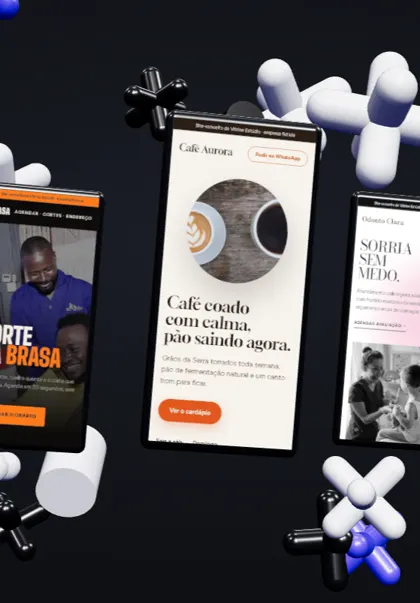
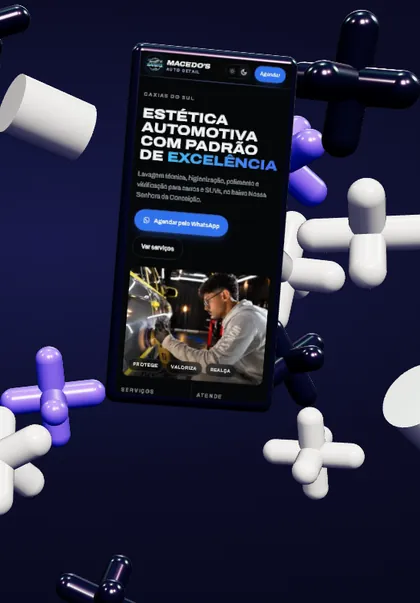
feat: tira os sites-conceito; grade com a Macedo's e o lugar do proximo site; cena 3D com um celular e poster novo; corrige rolagem da cena

diff --git a/index.html b/index.html
@@ -16,7 +16,7 @@
 <link rel="preload" as="style" href="https://fonts.googleapis.com/css2?family=Archivo:wdth,wght@125,700;125,800&family=Sen:wght@400;500;700&family=Mrs+Saint+Delafield&display=swap">
 <link rel="stylesheet" href="https://fonts.googleapis.com/css2?family=Archivo:wdth,wght@125,700;125,800&family=Sen:wght@400;500;700&family=Mrs+Saint+Delafield&display=swap" media="print" onload="this.media='all'">
 <noscript><link rel="stylesheet" href="https://fonts.googleapis.com/css2?family=Archivo:wdth,wght@125,700;125,800&family=Sen:wght@400;500;700&family=Mrs+Saint+Delafield&display=swap"></noscript>
-<link rel="stylesheet" href="css/v8.css?v=1795542000">
+<link rel="stylesheet" href="css/v8.css?v=1795560000">
 <script type="importmap">{ "imports": { "three": "./assets/vendor/three.module.min.js" } }</script>
 <script>document.documentElement.classList.add('js')</script>
 </head>
@@ -59,8 +59,7 @@
     </figure>
     <svg class="sign sign--hero" viewBox="0 0 600 200" aria-hidden="true" data-sign data-sign-hero><text x="300" y="140" text-anchor="middle">Vitrine</text></svg>
     <a class="me__float me__float--a" href="https://macedos-auto-detail.pages.dev" target="_blank" rel="noopener" data-float="0.6" data-speed="0.12"><img src="assets/img/macedos-servicos-720.webp" width="720" height="450" alt="Site da Macedo's Auto Detail"><span class="tiny">Macedo's · no ar ↗</span></a>
-    <a class="me__float me__float--b" href="conceitos/cafe/" data-float="-0.4" data-speed="-0.1"><img src="assets/conceitos/cafe-mob.webp" width="390" height="844" alt="Site-conceito do Café Aurora"><span class="tiny">Café · demonstração</span></a>
-    <a class="me__float me__float--c" href="conceitos/barbearia/" data-float="0.9" data-speed="0.2"><img src="assets/conceitos/barbearia-mob.webp" width="390" height="844" alt="Site-conceito da Barbearia Brasa"><span class="tiny">Barbearia · demonstração</span></a>
+    <a class="me__float me__float--c" href="https://macedos-auto-detail.pages.dev" target="_blank" rel="noopener" data-float="0.9" data-speed="0.2"><img src="assets/img/macedos-celular.webp" width="390" height="844" alt="Site da Macedo's Auto Detail no celular"><span class="tiny">No celular ↗</span></a>
     <div class="me__bottom">
       <h1 id="me-h" class="me__title" data-split>Sites bonitos e rápidos para pequenas empresas.</h1>
       <div class="me__cta">
@@ -74,7 +73,7 @@
   <section class="hero" aria-labelledby="hero-h">
     <div class="hero__stage" data-stage>
       <canvas class="hero__canvas" data-canvas aria-hidden="true"></canvas>
-      <picture class="hero__poster"><source media="(max-width: 700px)" srcset="assets/img/hero-cena-mob.webp"><img src="assets/img/hero-cena.webp" width="1365" height="804" alt="Celulares com os sites flutuando entre peças 3D brancas, pretas e azuis" fetchpriority="high"></picture>
+      <picture class="hero__poster"><source media="(max-width: 700px)" srcset="assets/img/hero-cena-mob.webp?v=2"><img src="assets/img/hero-cena.webp?v=2" width="1365" height="804" alt="Celular com o site da Macedo's flutuando entre peças 3D holográficas" fetchpriority="high"></picture>
       <div class="hero__over">
         <h2 id="hero-h" class="hero__title" data-split>Seu site novo, pronto antes de você pagar.</h2>
         <div class="hero__meta">
@@ -92,7 +91,7 @@
       <h2 id="c1-h" data-split>O cliente procura você e acha só um Instagram.</h2>
       <p>Sem site, sem horário claro, sem preço. Ele fecha a aba e chama o concorrente.</p>
     </div>
-    <div class="chap__phone" data-chap><img src="assets/conceitos/cafe-mob.webp" width="390" height="844" alt="" loading="lazy"></div>
+    <div class="chap__phone" data-chap><img src="assets/img/macedos-celular.webp" width="390" height="844" alt="" loading="lazy"></div>
     <span class="chap__stamp" aria-hidden="true" data-chap-extra>Sem site</span>
   </section>
 
@@ -103,8 +102,8 @@
       <h2 id="ad-h" class="sr">Antes e depois do site</h2>
       <span class="ad__word" aria-hidden="true" data-ad-l>Antes</span>
       <figure class="ad__phone">
-        <img class="ad__before" src="assets/conceitos/cafe-mob.webp" width="390" height="844" alt="O site antes: sem cor e sem vida" loading="lazy">
-        <img class="ad__after" src="assets/conceitos/cafe-mob.webp" width="390" height="844" alt="O site depois, com o novo visual" loading="lazy" data-ad-after>
+        <img class="ad__before" src="assets/img/macedos-celular.webp" width="390" height="844" alt="O site antes: sem cor e sem vida" loading="lazy">
+        <img class="ad__after" src="assets/img/macedos-celular.webp" width="390" height="844" alt="O site depois, com o novo visual" loading="lazy" data-ad-after>
       </figure>
       <span class="ad__word" aria-hidden="true" data-ad-r>Depois</span>
       <p class="tiny ad__cap">Role para ver o site mudar</p>
@@ -114,13 +113,10 @@
   <!-- Trabalhos: grade sem espaço entre as fotos, título com a palavra que troca, faixas cruzadas e botões -->
   <section class="work" id="trabalhos" aria-labelledby="work-h">
     <h2 id="work-h" class="work__title">Dá uma olhada no que eu posso fazer pela sua <span class="rot" data-rotate="empresa|barbearia|clínica|cafeteria|estética">empresa</span></h2>
-    <div class="tiles">
-      <a class="tile" href="conceitos/cafe/" data-rise><img src="assets/conceitos/cafe-desk.webp" width="1440" height="900" alt="Site do Café Aurora" loading="lazy"><span class="tile__info"><span class="tiny">Demonstração · Café</span><b>Café Aurora</b></span></a>
+    <div class="tiles tiles--duo">
       <a class="tile" href="https://macedos-auto-detail.pages.dev" target="_blank" rel="noopener" data-rise><img src="assets/img/macedos-home.webp" width="1440" height="900" alt="Site da Macedo's Auto Detail" loading="lazy"><span class="tile__info"><span class="tiny">Cliente real · no ar</span><b>Macedo's Auto Detail ↗</b></span></a>
-      <a class="tile" href="conceitos/barbearia/" data-rise><img src="assets/conceitos/barbearia-desk.webp" width="1440" height="900" alt="Site da Barbearia Brasa" loading="lazy"><span class="tile__info"><span class="tiny">Demonstração · Barbearia</span><b>Barbearia Brasa</b></span></a>
-      <a class="tile" href="conceitos/clinica/" data-rise><img src="assets/conceitos/clinica-desk.webp" width="1440" height="900" alt="Site da Odonto Clara" loading="lazy"><span class="tile__info"><span class="tiny">Demonstração · Clínica</span><b>Odonto Clara</b></span></a>
-      <a class="tile" href="https://macedos-auto-detail.pages.dev" target="_blank" rel="noopener" data-rise><img src="assets/img/macedos-farol.webp" width="1440" height="900" alt="Farol antes e depois no site da Macedo's" loading="lazy"><span class="tile__info"><span class="tiny">Cliente real · antes e depois</span><b>Farol como novo ↗</b></span></a>
-      <a class="tile" href="https://macedos-auto-detail.pages.dev" target="_blank" rel="noopener" data-rise><img src="assets/img/macedos-servicos-720.webp" width="720" height="450" alt="Vitrine de serviços no site da Macedo's" loading="lazy"><span class="tile__info"><span class="tiny">Cliente real · serviços</span><b>Vitrine de serviços ↗</b></span></a>
+      <!-- Lugar do próximo site real (o Boa de Contar entra aqui quando tiver matérias publicadas) -->
+      <a class="tile tile--next" href="#pedido" data-rise><span class="tile__next"><span class="tiny">Próximo site</span><b>O próximo pode ser o seu</b><span class="tile__go">Pedir minha prévia grátis →</span></span></a>
     </div>
     <div class="ribbons" aria-hidden="true">
       <div class="ribbon ribbon--a"><div class="ribbon__track"><span>Site novo</span><i>✦</i><span>Prévia grátis</span><i>✦</i><span>Otimização</span><i>✦</i><span>Manutenção</span><i>✦</i><span>Site novo</span><i>✦</i><span>Prévia grátis</span><i>✦</i><span>Otimização</span><i>✦</i><span>Manutenção</span><i>✦</i></div></div>
@@ -287,12 +283,12 @@
 
 <script src="assets/vendor/motion.js"></script>
 <script src="assets/vendor/lenis.min.js"></script>
-<script src="js/site.js?v=1795541000" defer></script>
+<script src="js/site.js?v=1795560000" defer></script>
 <script type="module">
   // A cena 3D só carrega em computador, depois que a página terminou; no celular fica a imagem dela.
   const big = matchMedia("(pointer: fine) and (min-width: 900px)").matches && (navigator.hardwareConcurrency || 4) >= 4;
   const later = (fn) => (window.requestIdleCallback ? requestIdleCallback(fn, { timeout: 2500 }) : setTimeout(fn, 1200));
-  if (big) addEventListener("load", () => later(() => import("./js/cena.js?v=1795282128")), { once: true });
+  if (big) addEventListener("load", () => later(() => import("./js/cena.js?v=1795562000")), { once: true });
 </script>
 <script type="module" src="js/analise.js?v=1794933840"></script>
 </body>

diff --git a/src/index.html b/src/index.html
@@ -17,7 +17,7 @@
 <link rel="preload" as="style" href="https://fonts.googleapis.com/css2?family=Archivo:wdth,wght@125,700;125,800&family=Sen:wght@400;500;700&family=Mrs+Saint+Delafield&display=swap">
 <link rel="stylesheet" href="https://fonts.googleapis.com/css2?family=Archivo:wdth,wght@125,700;125,800&family=Sen:wght@400;500;700&family=Mrs+Saint+Delafield&display=swap" media="print" onload="this.media='all'">
 <noscript><link rel="stylesheet" href="https://fonts.googleapis.com/css2?family=Archivo:wdth,wght@125,700;125,800&family=Sen:wght@400;500;700&family=Mrs+Saint+Delafield&display=swap"></noscript>
-<link rel="stylesheet" href="css/v8.css?v=1795542000">
+<link rel="stylesheet" href="css/v8.css?v=1795560000">
 <script type="importmap">{ "imports": { "three": "./assets/vendor/three.module.min.js" } }</script>
 <script>document.documentElement.classList.add('js')</script>
 </head>
@@ -60,8 +60,7 @@
     </figure>
     <svg class="sign sign--hero" viewBox="0 0 600 200" aria-hidden="true" data-sign data-sign-hero><text x="300" y="140" text-anchor="middle">Vitrine</text></svg>
     <a class="me__float me__float--a" href="https://macedos-auto-detail.pages.dev" target="_blank" rel="noopener" data-float="0.6" data-speed="0.12"><img src="assets/img/macedos-servicos-720.webp" width="720" height="450" alt="Site da Macedo's Auto Detail"><span class="tiny">Macedo's · no ar ↗</span></a>
-    <a class="me__float me__float--b" href="conceitos/cafe/" data-float="-0.4" data-speed="-0.1"><img src="assets/conceitos/cafe-mob.webp" width="390" height="844" alt="Site-conceito do Café Aurora"><span class="tiny">Café · demonstração</span></a>
-    <a class="me__float me__float--c" href="conceitos/barbearia/" data-float="0.9" data-speed="0.2"><img src="assets/conceitos/barbearia-mob.webp" width="390" height="844" alt="Site-conceito da Barbearia Brasa"><span class="tiny">Barbearia · demonstração</span></a>
+    <a class="me__float me__float--c" href="https://macedos-auto-detail.pages.dev" target="_blank" rel="noopener" data-float="0.9" data-speed="0.2"><img src="assets/img/macedos-celular.webp" width="390" height="844" alt="Site da Macedo's Auto Detail no celular"><span class="tiny">No celular ↗</span></a>
     <div class="me__bottom">
       <h1 id="me-h" class="me__title" data-split>Sites bonitos e rápidos para pequenas empresas.</h1>
       <div class="me__cta">
@@ -75,7 +74,7 @@
   <section class="hero" aria-labelledby="hero-h">
     <div class="hero__stage" data-stage>
       <canvas class="hero__canvas" data-canvas aria-hidden="true"></canvas>
-      <picture class="hero__poster"><source media="(max-width: 700px)" srcset="assets/img/hero-cena-mob.webp"><img src="assets/img/hero-cena.webp" width="1365" height="804" alt="Celulares com os sites flutuando entre peças 3D brancas, pretas e azuis" fetchpriority="high"></picture>
+      <picture class="hero__poster"><source media="(max-width: 700px)" srcset="assets/img/hero-cena-mob.webp?v=2"><img src="assets/img/hero-cena.webp?v=2" width="1365" height="804" alt="Celular com o site da Macedo's flutuando entre peças 3D holográficas" fetchpriority="high"></picture>
       <div class="hero__over">
         <h2 id="hero-h" class="hero__title" data-split>Seu site novo, pronto antes de você pagar.</h2>
         <div class="hero__meta">
@@ -93,7 +92,7 @@
       <h2 id="c1-h" data-split>O cliente procura você e acha só um Instagram.</h2>
       <p>Sem site, sem horário claro, sem preço. Ele fecha a aba e chama o concorrente.</p>
     </div>
-    <div class="chap__phone" data-chap><img src="assets/conceitos/cafe-mob.webp" width="390" height="844" alt="" loading="lazy"></div>
+    <div class="chap__phone" data-chap><img src="assets/img/macedos-celular.webp" width="390" height="844" alt="" loading="lazy"></div>
     <span class="chap__stamp" aria-hidden="true" data-chap-extra>Sem site</span>
   </section>
 
@@ -104,8 +103,8 @@
       <h2 id="ad-h" class="sr">Antes e depois do site</h2>
       <span class="ad__word" aria-hidden="true" data-ad-l>Antes</span>
       <figure class="ad__phone">
-        <img class="ad__before" src="assets/conceitos/cafe-mob.webp" width="390" height="844" alt="O site antes: sem cor e sem vida" loading="lazy">
-        <img class="ad__after" src="assets/conceitos/cafe-mob.webp" width="390" height="844" alt="O site depois, com o novo visual" loading="lazy" data-ad-after>
+        <img class="ad__before" src="assets/img/macedos-celular.webp" width="390" height="844" alt="O site antes: sem cor e sem vida" loading="lazy">
+        <img class="ad__after" src="assets/img/macedos-celular.webp" width="390" height="844" alt="O site depois, com o novo visual" loading="lazy" data-ad-after>
       </figure>
       <span class="ad__word" aria-hidden="true" data-ad-r>Depois</span>
       <p class="tiny ad__cap">Role para ver o site mudar</p>
@@ -115,13 +114,10 @@
   <!-- Trabalhos: grade sem espaço entre as fotos, título com a palavra que troca, faixas cruzadas e botões -->
   <section class="work" id="trabalhos" aria-labelledby="work-h">
     <h2 id="work-h" class="work__title">Dá uma olhada no que eu posso fazer pela sua <span class="rot" data-rotate="empresa|barbearia|clínica|cafeteria|estética">empresa</span></h2>
-    <div class="tiles">
-      <a class="tile" href="conceitos/cafe/" data-rise><img src="assets/conceitos/cafe-desk.webp" width="1440" height="900" alt="Site do Café Aurora" loading="lazy"><span class="tile__info"><span class="tiny">Demonstração · Café</span><b>Café Aurora</b></span></a>
+    <div class="tiles tiles--duo">
       <a class="tile" href="https://macedos-auto-detail.pages.dev" target="_blank" rel="noopener" data-rise><img src="assets/img/macedos-home.webp" width="1440" height="900" alt="Site da Macedo's Auto Detail" loading="lazy"><span class="tile__info"><span class="tiny">Cliente real · no ar</span><b>Macedo's Auto Detail ↗</b></span></a>
-      <a class="tile" href="conceitos/barbearia/" data-rise><img src="assets/conceitos/barbearia-desk.webp" width="1440" height="900" alt="Site da Barbearia Brasa" loading="lazy"><span class="tile__info"><span class="tiny">Demonstração · Barbearia</span><b>Barbearia Brasa</b></span></a>
-      <a class="tile" href="conceitos/clinica/" data-rise><img src="assets/conceitos/clinica-desk.webp" width="1440" height="900" alt="Site da Odonto Clara" loading="lazy"><span class="tile__info"><span class="tiny">Demonstração · Clínica</span><b>Odonto Clara</b></span></a>
-      <a class="tile" href="https://macedos-auto-detail.pages.dev" target="_blank" rel="noopener" data-rise><img src="assets/img/macedos-farol.webp" width="1440" height="900" alt="Farol antes e depois no site da Macedo's" loading="lazy"><span class="tile__info"><span class="tiny">Cliente real · antes e depois</span><b>Farol como novo ↗</b></span></a>
-      <a class="tile" href="https://macedos-auto-detail.pages.dev" target="_blank" rel="noopener" data-rise><img src="assets/img/macedos-servicos-720.webp" width="720" height="450" alt="Vitrine de serviços no site da Macedo's" loading="lazy"><span class="tile__info"><span class="tiny">Cliente real · serviços</span><b>Vitrine de serviços ↗</b></span></a>
+      <!-- Lugar do próximo site real (o Boa de Contar entra aqui quando tiver matérias publicadas) -->
+      <a class="tile tile--next" href="#pedido" data-rise><span class="tile__next"><span class="tiny">Próximo site</span><b>O próximo pode ser o seu</b><span class="tile__go">Pedir minha prévia grátis →</span></span></a>
     </div>
     <div class="ribbons" aria-hidden="true">
       <div class="ribbon ribbon--a"><div class="ribbon__track"><span>Site novo</span><i>✦</i><span>Prévia grátis</span><i>✦</i><span>Otimização</span><i>✦</i><span>Manutenção</span><i>✦</i><span>Site novo</span><i>✦</i><span>Prévia grátis</span><i>✦</i><span>Otimização</span><i>✦</i><span>Manutenção</span><i>✦</i></div></div>
@@ -267,12 +263,12 @@
 
 <script src="assets/vendor/motion.js"></script>
 <script src="assets/vendor/lenis.min.js"></script>
-<script src="js/site.js?v=1795541000" defer></script>
+<script src="js/site.js?v=1795560000" defer></script>
 <script type="module">
   // A cena 3D só carrega em computador, depois que a página terminou; no celular fica a imagem dela.
   const big = matchMedia("(pointer: fine) and (min-width: 900px)").matches && (navigator.hardwareConcurrency || 4) >= 4;
   const later = (fn) => (window.requestIdleCallback ? requestIdleCallback(fn, { timeout: 2500 }) : setTimeout(fn, 1200));
-  if (big) addEventListener("load", () => later(() => import("./js/cena.js?v=1795282128")), { once: true });
+  if (big) addEventListener("load", () => later(() => import("./js/cena.js?v=1795562000")), { once: true });
 </script>
 <script type="module" src="js/analise.js?v=1794933840"></script>
 </body>

diff --git a/js/cena.js b/js/cena.js
@@ -1,5 +1,5 @@
-// Cena 3D da abertura: peças brancas, pretas e azuis e três celulares com os sites, num painel escuro.
-// As peças voltam para o lugar como molas e fogem do mouse; os celulares olham para o mouse.
+// Cena 3D da abertura: peças holográficas e um celular com o site da Macedo's, num painel escuro.
+// As peças voltam para o lugar como molas e fogem do mouse; o celular olha para o mouse.
 import * as THREE from 'three';
 import { RoundedBoxGeometry } from '../assets/vendor/RoundedBoxGeometry.js';
 import { RoomEnvironment } from '../assets/vendor/RoomEnvironment.js';
@@ -13,7 +13,7 @@ let released = document.documentElement.dataset.ready === '1';
 document.addEventListener('vitrine:ready', () => { released = true; }, { once: true });
 setTimeout(() => { released = true; }, 4000);
 
-const SCREENS = ['assets/conceitos/barbearia-mob.webp', 'assets/conceitos/cafe-mob.webp', 'assets/conceitos/clinica-mob.webp'];
+const SCREENS = ['assets/img/macedos-celular.webp'];
 // creme, marinho e violeta, com reflexo de arco-íris (iridescência), como a bolha holográfica da Panda
 const COLORS = { white: '#ece6d8', black: '#10122f', blue: '#6d5cff' };
 const IRIS = { iridescence: 1, iridescenceIOR: 1.35, iridescenceThicknessRange: [120, 720] };
@@ -85,7 +85,7 @@ function start() {
   const loader = new THREE.TextureLoader();
   const phoneBody = new RoundedBoxGeometry(1.9, 4.05, 0.24, 6, 0.3);
   const screenGeo = new THREE.PlaneGeometry(1.72, 3.82);
-  const phoneSpots = [new THREE.Vector3(-2.6, -0.2, 1.2), new THREE.Vector3(0, 0.25, 2.4), new THREE.Vector3(2.6, -0.3, 1.2)];
+  const phoneSpots = [new THREE.Vector3(1.9, 0.55, 2.4)];
   SCREENS.forEach((src, i) => {
     const tex = loader.load(src);
     tex.colorSpace = THREE.SRGBColorSpace;
@@ -95,7 +95,7 @@ function start() {
     const screen = new THREE.Mesh(screenGeo, new THREE.MeshBasicMaterial({ map: tex, toneMapped: false }));
     screen.position.z = 0.125;
     phone.add(screen);
-    phone.scale.setScalar(i === 1 ? 1.08 : 0.9);
+    phone.scale.setScalar(1.15);
     addBody(phone, phoneSpots[i], { phone: true });
   });
 
@@ -135,7 +135,10 @@ function start() {
   window.addEventListener('resize', resize);
 
   let scrollP = 0;
-  window.addEventListener('scroll', () => { scrollP = Math.min(1, window.scrollY / Math.max(1, stage.clientHeight)); }, { passive: true });
+  // quanto a cena já subiu da tela (0 quando o topo dela está no topo da janela), não a rolagem da página toda
+  const onScroll = () => { scrollP = Math.min(1, Math.max(0, -stage.getBoundingClientRect().top / Math.max(1, stage.clientHeight))); };
+  window.addEventListener('scroll', onScroll, { passive: true });
+  onScroll();
 
   const tmp = new THREE.Vector3();
   const clock = new THREE.Clock();

diff --git a/css/v8.css b/css/v8.css
@@ -392,3 +392,14 @@ main > section:first-child { border-top: 0; }
 /* Assinatura do Arthur no fim da história, na seção "Quem faz" */
 .about .sign--about { width: min(340px, 72%); margin: -18px 0 -26px -14px; }
 @media (max-width: 1023px) { .about__photo { order: -1; } }
+
+/* Grade com dois: o site real e o lugar do próximo */
+.tiles--duo { grid-template-columns: repeat(2, minmax(0, 1fr)) !important; }
+.tiles--duo .tile { aspect-ratio: 16 / 10.5; }
+.tile--next { display: grid; place-items: center; background: var(--cream); color: var(--bg); border: 0; }
+.tile__next { display: grid; gap: 14px; justify-items: start; padding: clamp(22px, 4vw, 56px); }
+.tile__next .tiny { color: rgb(7 8 28 / .6); }
+.tile__next b { font: 800 clamp(26px, 3.2vw, 52px)/1.02 var(--wide); font-stretch: 125%; text-transform: uppercase; max-width: 12ch; }
+.tile__go { font: 700 13px var(--text); letter-spacing: .14em; text-transform: uppercase; border-bottom: 2px solid var(--bg); padding-bottom: 4px; transition: letter-spacing .4s var(--ease); }
+.tile--next:hover .tile__go { letter-spacing: .2em; }
+@media (max-width: 639px) { .tiles--duo { grid-template-columns: 1fr !important; } .tiles--duo .tile { aspect-ratio: 4 / 3; } }
